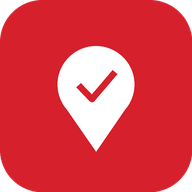
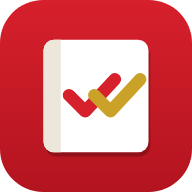
Nuevo icono de la app (A1: pasaporte con doble tic rojo + dorado)
- icons/icon.svg (favicon) e icon-full.svg; PNG 192/512, maskable 512, apple-touch 180, favicon 32
- tools/make_icons.py + tools/render_icons.js para regenerarlos

Claude-Session: https://claude.ai/code/session_01DbYLVCXGYHWG1uj6zhtdWq

diff --git a/tools/render_icons.js b/tools/render_icons.js
@@ -1,0 +1,16 @@
+// Rasteriza icons/*.svg a los PNG que usa la PWA.
+const { chromium } = require('playwright');
+const fs = require('fs');
+const out = [['icon.svg', 'icon-192.png', 192], ['icon.svg', 'icon-512.png', 512], ['icon-full.svg', 'icon-maskable-512.png', 512], ['icon-full.svg', 'apple-touch-icon.png', 180], ['icon.svg', 'favicon-32.png', 32]];
+(async () => {
+  const b = await chromium.launch();
+  for (const [src, dst, size] of out) {
+    const p = await b.newPage({ viewport: { width: size, height: size } });
+    const svg = fs.readFileSync('icons/' + src, 'utf8').replace('width="1024" height="1024"', `width="${size}" height="${size}"`);
+    await p.setContent(`<html><body style="margin:0;background:transparent">${svg}</body></html>`);
+    await p.screenshot({ path: 'icons/' + dst, omitBackground: true, clip: { x: 0, y: 0, width: size, height: size } });
+    await p.close();
+  }
+  await b.close();
+  console.log('png ok');
+})();

diff --git a/sw.js b/sw.js
@@ -1,13 +1,13 @@
 // Service worker: app instalable y uso sin conexión.
 // - App (HTML/CSS/JS/datos): red primero, caché como respaldo → las actualizaciones llegan al momento.
 // - Mapa (tiles OpenFreeMap) e imágenes (Wikimedia): caché primero y se refresca en segundo plano.
-const VERSION = 'mp-v7';
+const VERSION = 'mp-v8';
 const SHELL = [
   './', 'index.html', 'manifest.webmanifest', 'css/styles.css',
   'js/config.js', 'js/auth.js', 'vendor/supabase/supabase.js', 'js/data.js', 'js/icons.js', 'js/badges.js', 'js/share.js', 'js/app.js',
   'data/distritos.geojson', 'data/barrios.geojson',
   'vendor/maplibre/maplibre-gl.js', 'vendor/maplibre/maplibre-gl.css',
-  'icons/icon-192.png', 'icons/icon-512.png',
+  'icons/icon.svg', 'icons/icon-192.png', 'icons/icon-512.png', 'icons/apple-touch-icon.png',
 ];
 const LIMITS = { [`${VERSION}-tiles`]: 3000, [`${VERSION}-img`]: 300 };
 

diff --git a/index.html b/index.html
@@ -11,7 +11,8 @@
   <meta name="apple-mobile-web-app-title" content="Madrid Passport">
   <meta name="apple-mobile-web-app-status-bar-style" content="default">
   <link rel="manifest" href="manifest.webmanifest">
-  <link rel="icon" href="icons/icon-192.png">
+  <link rel="icon" type="image/svg+xml" href="icons/icon.svg">
+  <link rel="icon" type="image/png" sizes="32x32" href="icons/favicon-32.png">
   <link rel="apple-touch-icon" href="icons/apple-touch-icon.png">
   <title>Madrid Passport</title>
   <link rel="stylesheet" href="vendor/maplibre/maplibre-gl.css">

diff --git a/tools/make_icons.py b/tools/make_icons.py
@@ -1,21 +1,11 @@
-"""Genera los iconos de la PWA (pin rojo con tic blanco). Uso: python3 tools/make_icons.py"""
-from PIL import Image, ImageDraw
-RED = (214, 32, 44)
-def icon(size, maskable=False, path=None):
-    S = size * 4                                   # supersampling para bordes suaves
-    im = Image.new('RGBA', (S, S), RED if maskable else (0, 0, 0, 0))
-    d = ImageDraw.Draw(im)
-    if not maskable: d.rounded_rectangle([0, 0, S, S], radius=S * 0.22, fill=RED)
-    k = 0.78 if maskable else 1.0                  # zona segura en maskable
-    cx, cy, r = S / 2, S * (0.5 - 0.06 * k), S * 0.2 * k
-    # Pin: círculo + punta
-    d.ellipse([cx - r, cy - r, cx + r, cy + r], fill='white')
-    d.polygon([(cx - r * 0.78, cy + r * 0.62), (cx + r * 0.78, cy + r * 0.62), (cx, cy + r * 1.75)], fill='white')
-    # Tic rojo dentro
-    w = int(S * 0.034 * k)
-    d.line([(cx - r * 0.45, cy + r * 0.02), (cx - r * 0.1, cy + r * 0.38), (cx + r * 0.5, cy - r * 0.32)], fill=RED, width=w, joint='curve')
-    im.resize((size, size), Image.LANCZOS).save(path)
-icon(192, path='icons/icon-192.png'); icon(512, path='icons/icon-512.png')
-icon(512, maskable=True, path='icons/icon-maskable-512.png')
-# Apple: sin transparencia (iOS pone fondo negro), cuadrado completo
-icon(180, maskable=True, path='icons/apple-touch-icon.png')
+"""Genera los iconos de la app (diseño A1: pasaporte blanco con doble tic rojo + dorado sobre rojo).
+Uso: python3 tools/make_icons.py && node tools/render_icons.js"""
+import importlib.util, os
+spec = importlib.util.spec_from_file_location('b2', 'mockups/iconos/build2.py'); b2 = importlib.util.module_from_spec(spec); spec.loader.exec_module(b2)
+art = dict((k, svg) for k, _, svg in b2.A)['A1']
+head = '<svg xmlns="http://www.w3.org/2000/svg" viewBox="0 0 1024 1024" width="1024" height="1024">'
+# Cuadrado completo (iOS/Android aplican su propia máscara; sin transparencia)
+open('icons/icon-full.svg', 'w').write(f'{head}{art}</svg>')
+# Con esquinas redondeadas (favicon y uso "any")
+open('icons/icon.svg', 'w').write(f'{head}<defs><clipPath id="m"><path d="{b2.MASK}"/></clipPath></defs><g clip-path="url(#m)">{art}</g></svg>')
+print('svg ok')
